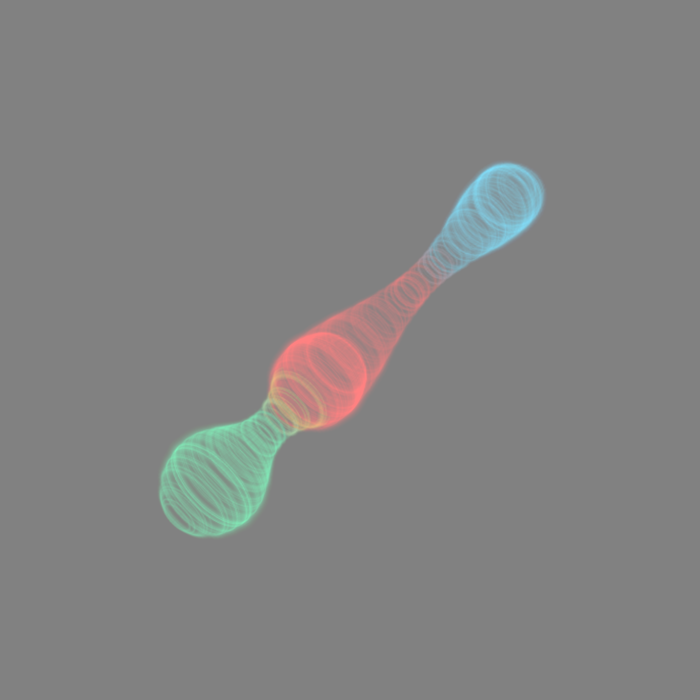
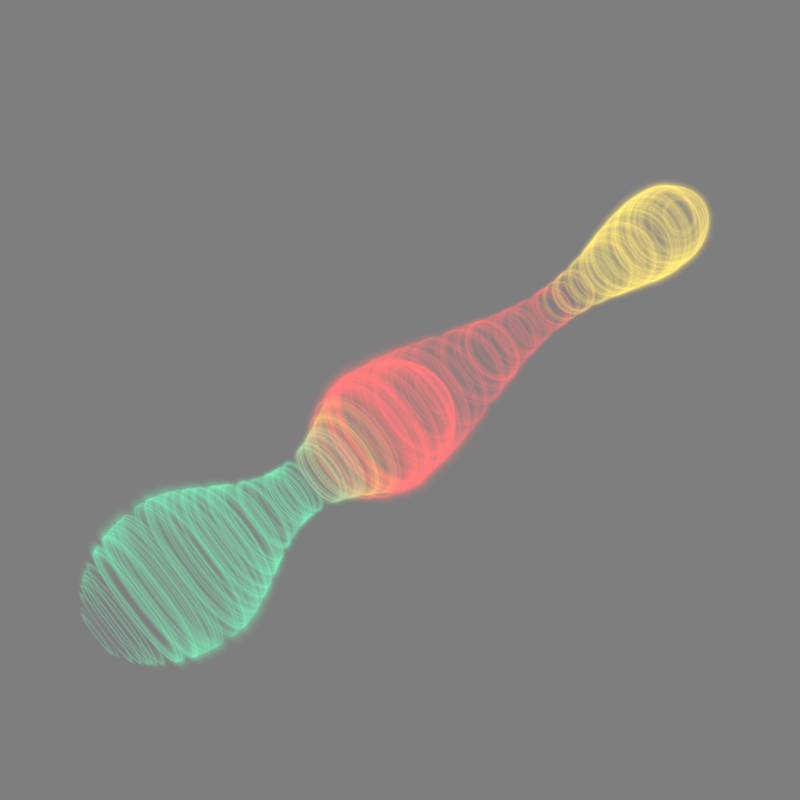
Update KOH image, wire image and add new information overlay

Changed region(s): [[0.09, 0.21, 0.9, 0.84]]

diff --git a/web-speaker-controls/index.html b/web-speaker-controls/index.html
@@ -169,7 +169,7 @@
 
 					<div class="flexrow flexwrap flexcenter">
 						<img class="item-preview" data-confim-id="114" src="./img/electrolysis-electrodes.png" alt="Electrodes" />
-						<img class="item-preview" data-confim-id="115" src="./img/electrolysis-wire.png" alt="Wires" />
+						<img class="item-preview" data-confim-id="115" src="./img/electrolysis-wire-2.png" alt="Wires" />
 						<img class="item-preview" data-confim-id="116" src="./img/electrolysis-bubbles-hydrogen.png" alt="Hydrogen bubbles" />
 						<img class="item-preview" data-confim-id="117" src="./img/electrolysis-bubbles-oxygen.png" alt="Oxygen bubbles" />
 						<img class="item-preview" data-confim-id="200" src="../sources/img/electrolysis-membrane.png" alt="Membrane" />
@@ -223,7 +223,7 @@
 
 					<div class="flexrow flexwrap flexcenter">
 						<img class="item-preview" data-confim-id="114" src="./img/electrolysis-electrodes.png" alt="Electrodes" />
-						<img class="item-preview" data-confim-id="115" src="./img/electrolysis-wire.png" alt="Wires" />
+						<img class="item-preview" data-confim-id="115" src="./img/electrolysis-wire-2.png" alt="Wires" />
 						<img class="item-preview" data-confim-id="116" src="./img/electrolysis-bubbles-hydrogen.png" alt="Hydrogen bubbles" />
 						<img class="item-preview" data-confim-id="117" src="./img/electrolysis-bubbles-oxygen.png" alt="Oxygen bubbles" />
 						<img class="item-preview" data-confim-id="200" src="../sources/img/electrolysis-membrane.png" alt="Membrane" />
@@ -305,7 +305,7 @@
 
 					<div class="flexrow flexwrap flexcenter">
 						<img class="item-preview" data-confim-id="114" src="./img/electrolysis-electrodes.png" alt="Electrodes" />
-						<img class="item-preview" data-confim-id="115" src="./img/electrolysis-wire.png" alt="Wires" />
+						<img class="item-preview" data-confim-id="115" src="./img/electrolysis-wire-2.png" alt="Wires" />
 						<img class="item-preview" data-confim-id="116" src="./img/electrolysis-bubbles-hydrogen.png" alt="Hydrogen bubbles" />
 						<img class="item-preview" data-confim-id="117" src="./img/electrolysis-bubbles-oxygen.png" alt="Oxygen bubbles" />
 						<img class="item-preview" data-confim-id="200" src="../sources/img/electrolysis-membrane.png" alt="Membrane" />

diff --git a/web-assistant-controls/index.html b/web-assistant-controls/index.html
@@ -140,14 +140,14 @@
 			
 			<div id="master">
 				<div id="master-container" class="flexrow flexcenter">
-					<div id="minusminus" class="square-btn minus">--</div>
-					<div id="minus" class="square-btn minus">-</div>
+					<div id="minusminus" class="btn square-btn minus">--</div>
+					<div id="minus" class="btn square-btn minus">-</div>
 					<div class="flexcol flexcenter">
 						<p>Master volume</p>
 						<p class="volume"><span id="vol">50</span> %</p>
 					</div>
-					<div id="plus" class="square-btn">+</div>
-					<div id="plusplus" class="square-btn">++</div>
+					<div id="plus" class="btn square-btn">+</div>
+					<div id="plusplus" class="btn square-btn">++</div>
 				</div>
 			</div>
 			
@@ -180,6 +180,14 @@
 	</div>
 
 	<div id="overlay"></div> <!-- Prevents double-taps -->
+
+	<div id="information-overlay">
+		<h2>👋 hey</h2>
+		<p>Before triggering any action</p>
+		<p><span>WAIT for all molecules to be loaded on MASTER and IGs</span></p>
+		<p>They are loaded 5 seconds after the main thread and can induce freezes</p>
+		<button id="overlay-ok-btn" class="btn info-btn">All molecules were loaded</button>
+	</div>
 	
 <!-- Scripts for libraries -->
 <!-- None! -->

diff --git a/sources/css/main.less b/sources/css/main.less
@@ -7,6 +7,7 @@
     --ui-bg-color-3: #1F1F1F;
     --text-color: #EEE;
     --main-blue: hsl(200, 83%, 42%);
+    --main-green: hsl(160, 83%, 42%);
     --audio-sample-color-0: hsl(0, 0%, 85%);
     --audio-sample-color-1: hsl(200, 83%, 43%);
     --audio-sample-color-2: hsl(230, 70%, 63%);
@@ -49,7 +50,7 @@
 }
 
 /* Helpers */
-p, a, label, h1, h2, h3, h4 {
+p, a, label, h1, h2, h3, h4, button {
     font-family: 'Rationale', 'Raleway', 'Comic Sans MS', serif;
     color: var(--text-color);
 }
@@ -238,20 +239,23 @@ img.item-preview {
         border-color: var(--video-color-1);
     }
 }
-.square-btn {
-    margin: .25rem;
-    width: 50px;
-    min-width: 50px;
-    height: 35px;
+.btn {
     user-select: none;
-    border-radius: 20px;
     cursor: pointer;
     border: solid 1.5px rgba(255, 255, 255, .7);
     background-color: black;
     color: white;
     transition: background-color 70ms ease-out;
-    font-size: 30px;
     text-align: center;
+    border-radius: 2px;
+}
+.square-btn {
+    margin: .25rem;
+    width: 50px;
+    min-width: 50px;
+    height: 35px;
+    border-radius: 20px;
+    font-size: 30px;
     padding: 8.5px 0 9.5px 3px;
     letter-spacing: 3px;
 

diff --git a/sources/css/main.css b/sources/css/main.css
@@ -5,6 +5,7 @@
   --ui-bg-color-3: #1F1F1F;
   --text-color: #EEE;
   --main-blue: hsl(200, 83%, 42%);
+  --main-green: hsl(160, 83%, 42%);
   --audio-sample-color-0: hsl(0, 0%, 85%);
   --audio-sample-color-1: hsl(200, 83%, 43%);
   --audio-sample-color-2: hsl(230, 70%, 63%);
@@ -52,7 +53,8 @@ label,
 h1,
 h2,
 h3,
-h4 {
+h4,
+button {
   font-family: 'Rationale', 'Raleway', 'Comic Sans MS', serif;
   color: var(--text-color);
 }
@@ -227,20 +229,23 @@ img.item-preview.no-border {
 .video.video-stop {
   border-color: var(--video-color-1);
 }
-.square-btn {
-  margin: 0.25rem;
-  width: 50px;
-  min-width: 50px;
-  height: 35px;
+.btn {
   user-select: none;
-  border-radius: 20px;
   cursor: pointer;
   border: solid 1.5px rgba(255, 255, 255, 0.7);
   background-color: black;
   color: white;
   transition: background-color 70ms ease-out;
-  font-size: 30px;
   text-align: center;
+  border-radius: 2px;
+}
+.square-btn {
+  margin: 0.25rem;
+  width: 50px;
+  min-width: 50px;
+  height: 35px;
+  border-radius: 20px;
+  font-size: 30px;
   padding: 8.5px 0 9.5px 3px;
   letter-spacing: 3px;
 }

diff --git a/web-assistant-controls/css/assistant.css b/web-assistant-controls/css/assistant.css
@@ -104,3 +104,40 @@ h2 {
   justify-content: center;
   margin: 20px 10px;
 }
+#information-overlay {
+  width: 100%;
+  height: 100%;
+  position: fixed;
+  z-index: 10;
+  background: rgba(0, 0, 0, 0.85);
+  top: 0;
+  left: 0;
+  text-align: center;
+  display: flex;
+  flex-flow: column;
+  justify-content: center;
+  align-items: center;
+  font-size: 1.5rem;
+  transition: opacity 250ms ease-out;
+}
+#information-overlay h2 {
+  margin-bottom: 1.25rem;
+}
+#information-overlay p {
+  margin: 0.8em;
+}
+#information-overlay span {
+  color: red;
+  text-shadow: red 0 0 10px;
+  margin: 5px 0 10px;
+}
+#information-overlay .info-btn {
+  padding: 1em;
+  text-transform: uppercase;
+  font-size: 1.5rem;
+  margin-top: 1em;
+}
+#information-overlay .info-btn:hover {
+  background-color: var(--main-green);
+  color: var(--ui-bg-color-1);
+}

diff --git a/web-assistant-controls/css/assistant.less b/web-assistant-controls/css/assistant.less
@@ -128,3 +128,45 @@ h2 {
 
 
 }
+
+#information-overlay {
+    width: 100%;
+    height: 100%;
+    position: fixed;
+    z-index: 10;
+    background: rgba(0, 0, 0, .85);
+    top: 0;
+    left: 0;
+    text-align: center;
+    display: flex;
+    flex-flow: column;
+    justify-content: center;
+    align-items: center;
+    font-size: 1.5rem;
+    transition: opacity 250ms ease-out;
+
+    h2 {
+        margin-bottom: 1.25rem;
+    }
+    p {
+        margin: .8em;
+    }
+    span {
+        color: red;
+        text-shadow: red 0 0 10px;
+        margin: 5px 0 10px;
+    }
+
+    .info-btn {
+        padding: 1em;
+        text-transform: uppercase;
+        font-size: 1.5rem;
+        margin-top: 1em;
+
+        &:hover {
+            background-color: var(--main-green);
+            color: var(--ui-bg-color-1);
+        }
+    }
+}
+

diff --git a/web-assistant-controls/js/browser-assistant.js b/web-assistant-controls/js/browser-assistant.js
@@ -10,6 +10,9 @@ let plus = document.getElementById('plus')
 let plusplus = document.getElementById('plusplus')
 let vol = document.getElementById('vol')
 let container = document.getElementById('master-container')
+let informationOverlay = document.getElementById("information-overlay")
+let overlayButton = document.getElementById("overlay-ok-btn")
+
 let updateVolume = () => {
 	// Update front-end text
 	vol.innerHTML = volume
@@ -79,4 +82,12 @@ mediaNodes.forEach((couple) => {
 		stop.setAttribute('data-visibility', 'hidden')
 		play.setAttribute('data-visibility', 'visible')
 	})
+})
+
+// Information overlay hide button
+overlayButton.addEventListener("click", () => {
+	informationOverlay.style.opacity = 0
+	setTimeout(() => {
+		informationOverlay.style.display = "none"
+	}, 250)
 })
